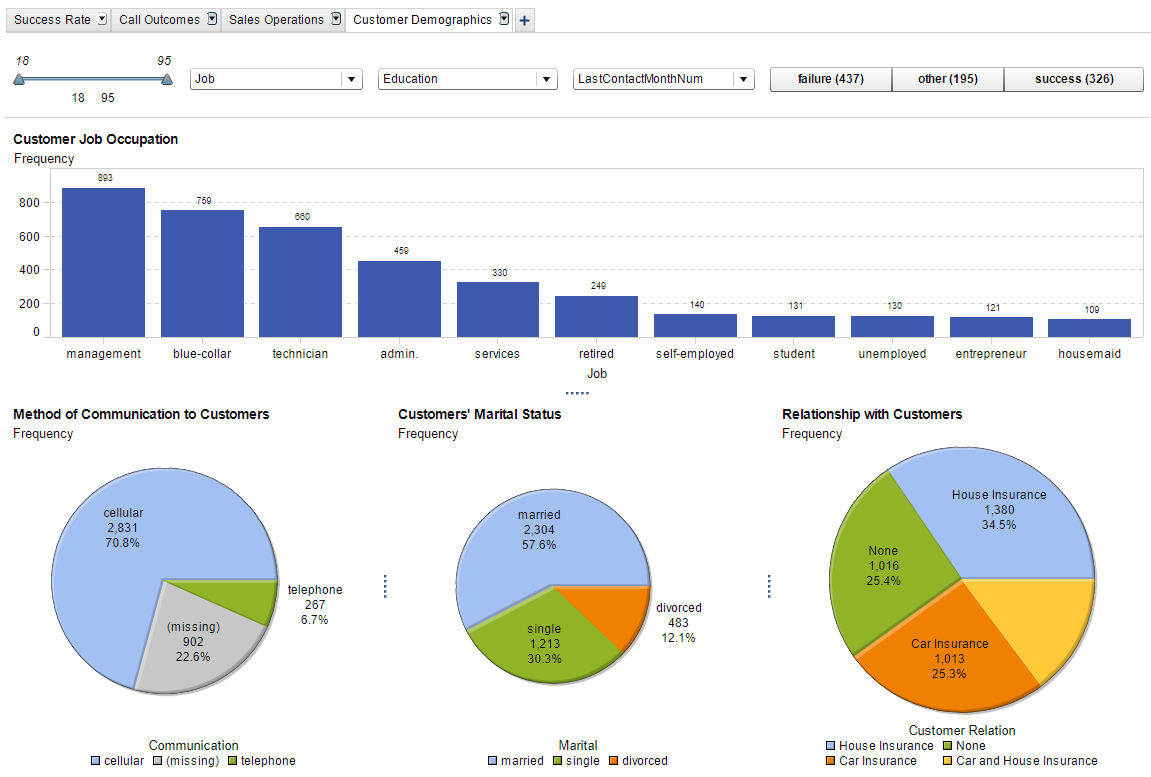
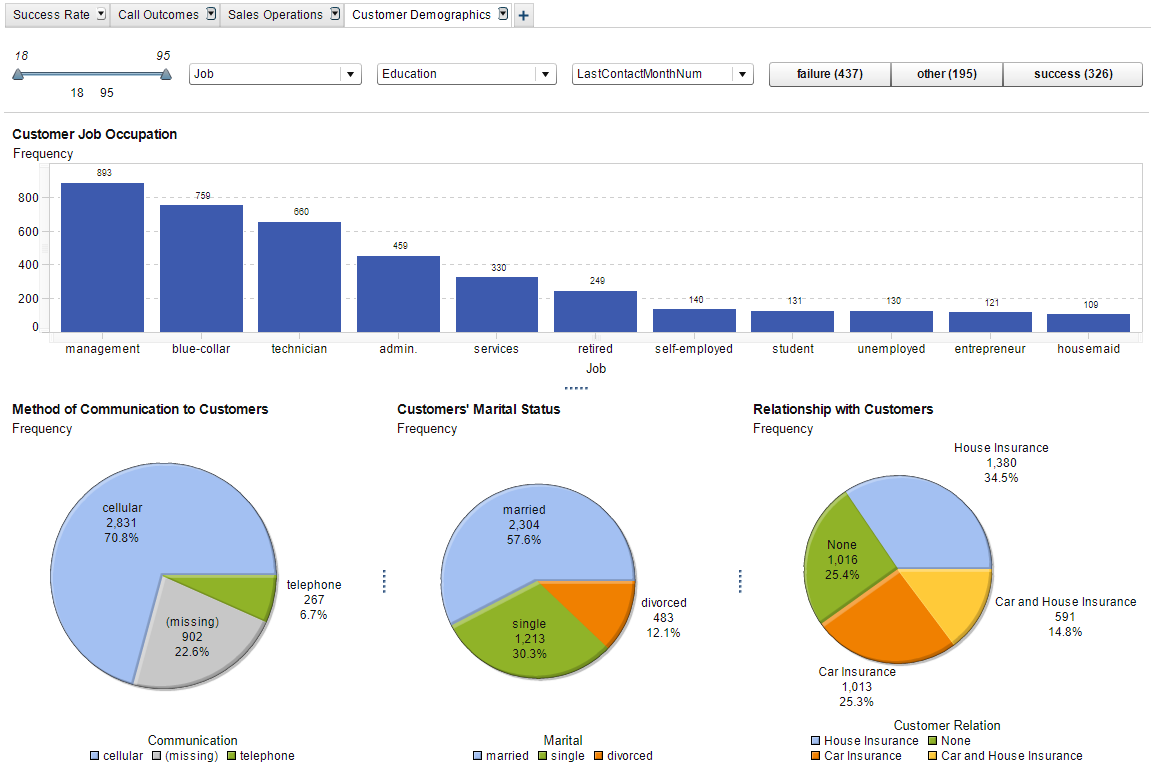
Added documentation and fixed tab4 screenshot

diff --git a/README.md b/README.md
@@ -1,5 +1,71 @@
 # infs3603-dashboard
 
-Putting my dashboard report for INFS3603 here for easier version control.
+Putting my SAS VA dashboard report for INFS3603 here for easier version control.
 
-Pls don't plagiarise
+Pls don't plagiarise.
+
+# User Guide
+## Overview
+The dashboard/report is designed to give an operational and strategic overview of a
+hypothetical company's car insurance sales. Each tab in the dashboard has an array of
+filters on the top bar to allow for drilling down into specific customer demographics
+and subsets.
+
+When a filter is set, every graph in the tab is updated to only consider the subset
+of customers that match the criteria set in the filter. Each tab has the following
+filters:
+* Age
+* Job occupation
+* Education level
+* Month customer was last contacted (LastContactMonthNum)
+* Call outcome (failure, other or success)
+
+## Success Rate
+The Success Rate tab displays the status of the company's KPI
+at a glance. We have determined that our main KPI, or "North Star Metric" to be
+the percentage of customer contacts that result in a successful outcome
+(i.e. car insurance was able to be sold/renewed).
+* Success Rate - Gauge for showing how well the company is performing in selling
+  car insurance overall.
+* Success Outcome Amount by Month - Bar chart for showing the raw numbers of
+  successful insurance sales, grouped by new sale (HasCarInsurance = No)
+  and renewal (HasCarInsurance = Yes)
+
+This tab an extra filter "HasCarInsurance" to filter success rate by renewal
+or new sale.
+
+![success rate tab](https://raw.githubusercontent.com/WeilonYing/infs3603-dashboard/master/screenshots/tab1-successrate.PNG)
+
+## Call Outcomes
+The Call Outcomes tab shows the number of calls and the proportion of outcomes
+for each month.
+* Outcomes grouped by Month - Shows the percentage of failure, other and success
+  outcomes from calls in a particular month.
+* Call Frequency each Month grouped by Month - Shows the raw number of calls made
+  each month, grouped by outcome.
+
+![call outcomes tab](https://raw.githubusercontent.com/WeilonYing/infs3603-dashboard/master/screenshots/tab2-calloutcomes.PNG)
+
+## Sales Operations
+The Sales Operations shows customer calling statistics. It is used to track how
+efficiency of a hypothetical sales team at making car insurance sales.
+* Average Call Duration over time grouped by Outcome - Pretty self explanatory.
+  Shows the average call duration for each day, with one line for each possible
+  outcome.
+* Number of calls per day grouped by Outcome - Shows how many calls were made each
+  day, with one line for each possible outcome.
+
+![sales operations](https://raw.githubusercontent.com/WeilonYing/infs3603-dashboard/master/screenshots/tab3-salesoperations.PNG)
+
+## Customer Demographics
+The Customer Demographics tab functions as a quick overview of the nature and
+background of our customers. It should be used as a tool for creating marketing
+strategies for future sales.
+* Customer Job Occupation - Shows the amount of customers in each job occupation
+* Method of Communication to Customers - Self explanatory
+* Customers' Marital Status - Self explanatory
+* Relationship with Customers - Shows the proportion of customers that have
+  already purchased an insurance policy with the company, and which policy/ies
+  they have purchased.
+
+![customer demographics](https://raw.githubusercontent.com/WeilonYing/infs3603-dashboard/master/screenshots/tab4-customerdemographics.PNG)
